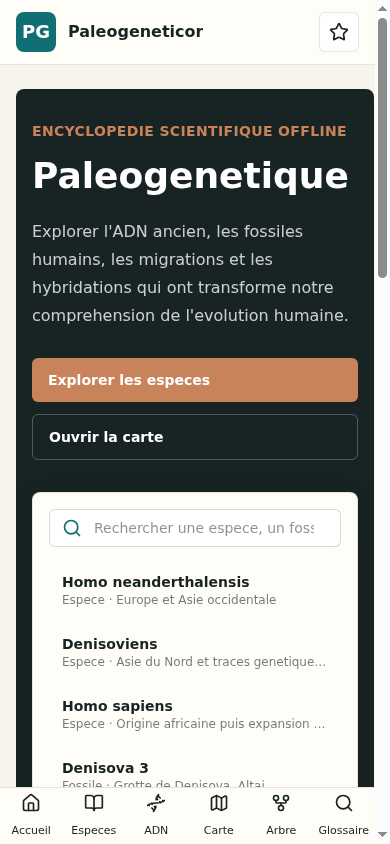
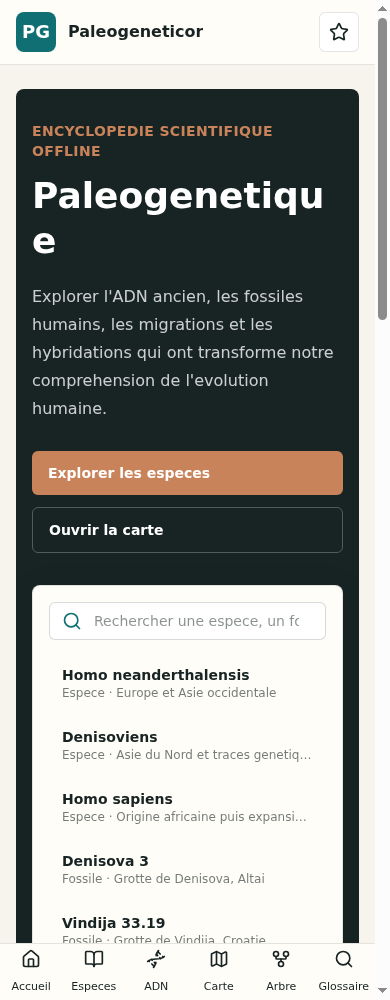
Fix mobile timeline layout

diff --git a/src/components/TimelineStrip.tsx b/src/components/TimelineStrip.tsx
@@ -1,13 +1,23 @@
 import { timelineEvents } from '../services/content';
 import { formatKya } from '../utils/format';
 
+const categoryLabels: Record<string, string> = {
+  species: 'Espece',
+  climate: 'Climat',
+  migration: 'Migration',
+  innovation: 'Innovation',
+  publication: 'Publication'
+};
+
 export function TimelineStrip() {
   return (
-    <div className="overflow-x-auto pb-2">
-      <ol className="grid min-w-[760px] grid-cols-3 gap-4">
+    <div className="pb-2">
+      <ol className="grid min-w-0 gap-4 sm:grid-cols-3">
         {timelineEvents.map((event) => (
-          <li key={event.id} className="rounded-lg border border-black/10 bg-white p-4">
-            <p className="text-xs font-semibold uppercase tracking-wide text-ochre">{event.category}</p>
+          <li key={event.id} className="min-w-0 rounded-lg border border-black/10 bg-white p-4">
+            <p className="text-xs font-semibold uppercase tracking-wide text-ochre">
+              {categoryLabels[event.category] ?? event.category}
+            </p>
             <h3 className="mt-2 font-semibold text-ink">{event.title}</h3>
             <p className="mt-1 text-sm font-medium text-lagoon">
               {event.dateKya ? formatKya(event.dateKya) : event.year}